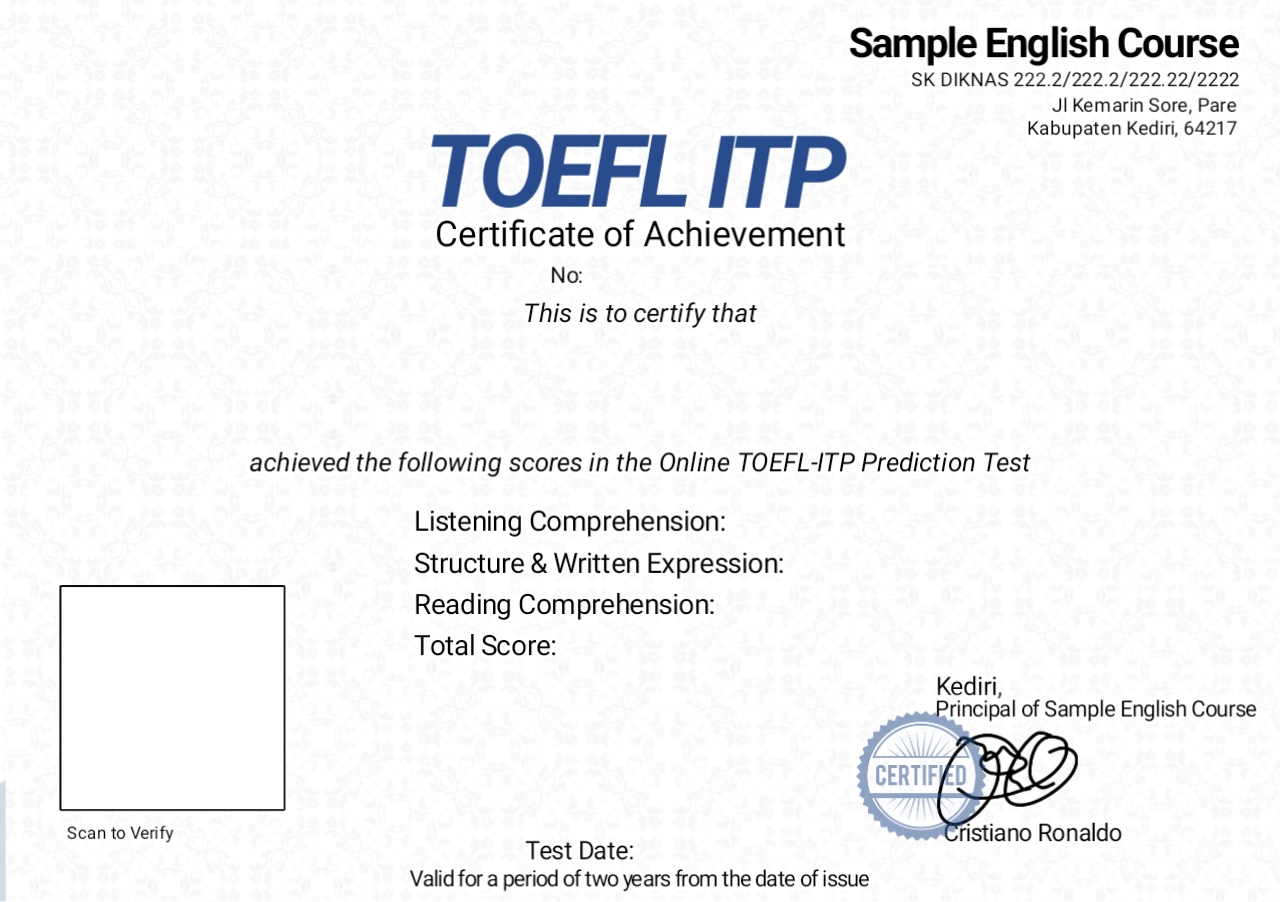
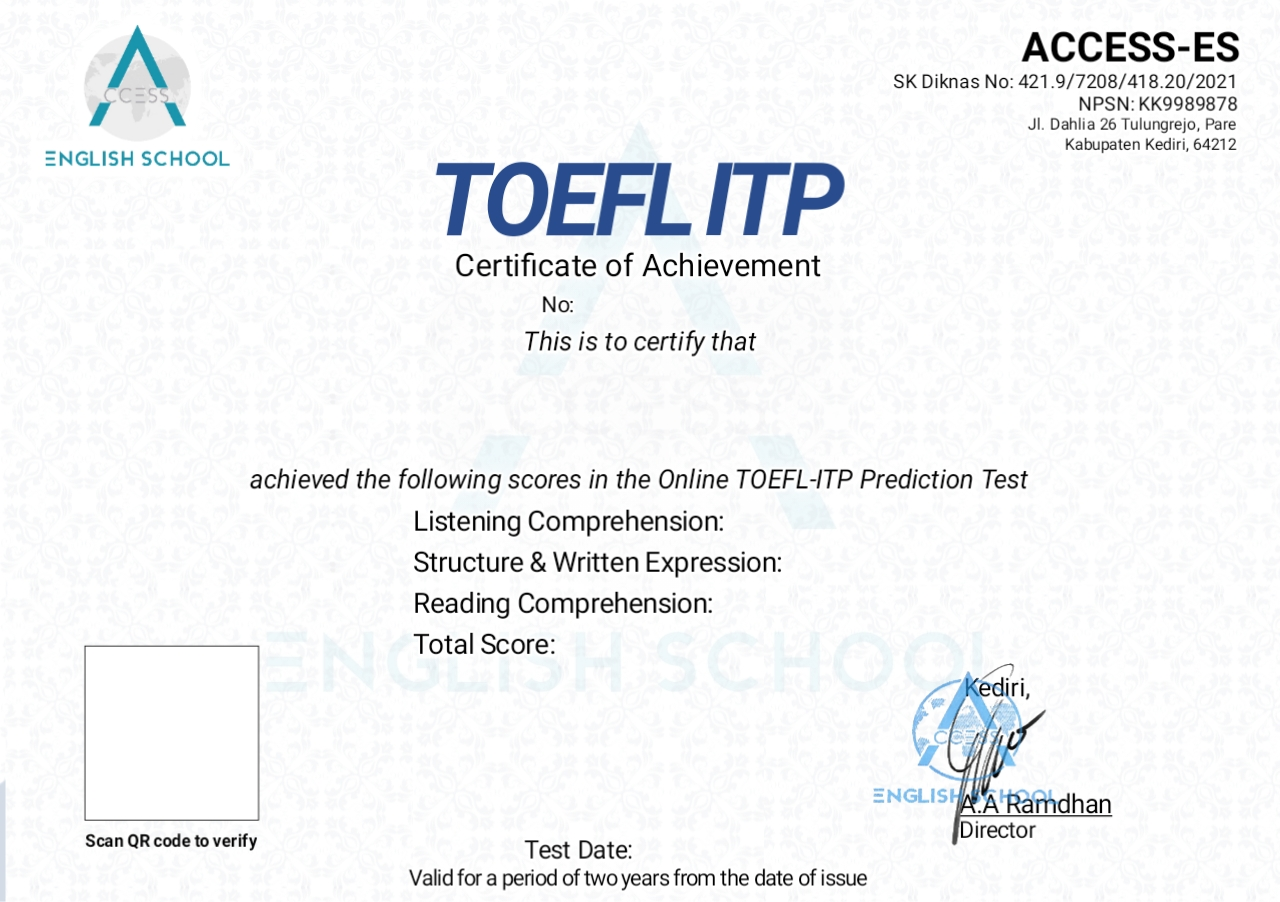
sertifikat access

diff --git a/application/views/pages/tes/sertifikat.php b/application/views/pages/tes/sertifikat.php
@@ -49,8 +49,8 @@
         .qrcode{
             width: 210px;
 			position: absolute;
-            left: 36px;
-			bottom: 55px;
+            left: 57px;
+			bottom: 54px;
             font-size: 35px;
             word-spacing: 3px;
         }
@@ -60,7 +60,7 @@
             width: 600px;
 			position: absolute;
             left: 100px;
-			top: 200px;
+			top: 230px;
             font-size: 26px;
             font-family: 'Roboto', sans-serif;
             word-spacing: 3px;
@@ -71,7 +71,7 @@
             width: 600px;
 			position: absolute;
             left: 100px;
-			top: 238px;
+			top: 259px;
             font-size: 16px;
             font-family: 'Roboto', sans-serif;
             word-spacing: 3px;
@@ -167,7 +167,7 @@
             /* background-color: red; */
 			position: absolute;
             left: 606px;
-			bottom: 109px;
+			bottom: 107px;
             font-size: 14px;
             font-family: 'Roboto', sans-serif;
             word-spacing: 3px;
@@ -177,8 +177,8 @@
             /* background-color: red; */
             width: 200px;
 			position: absolute;
-            left: 370px;
-			top: 162px;
+            left: 364px;
+			top: 181px;
             font-size: 13px;
             font-family: 'Roboto', sans-serif;
             word-spacing: 3px;
@@ -223,7 +223,7 @@
 </head>
     <body style="text-align: center">
         <div class="qrcode">
-            <img src="<?= base_url()?>assets/qrcode/<?= $id?>.png" width=145 alt="">
+            <img src="<?= base_url()?>assets/qrcode/<?= $id?>.png" width=100 alt="">
         </div>
         <div class="nilai"><p style="text-align: right; margin: 0px"><b><?= round($skor)?></b></p></div>
         <div class="nama"><p style="text-align: center; margin: 0px"><b><u><?= $nama?></u></b></p></div>

diff --git a/application/controllers/Tes.php b/application/controllers/Tes.php
@@ -219,7 +219,7 @@ class Tes extends MY_Controller {
 
         $skor = round($skor);
         
-        $peserta['no_doc'] = "EI/{$peserta['tahun']}/{$peserta['no_doc']}";
+        $peserta['no_doc'] = "AC/ES/{$peserta['tahun']}/1{$peserta['no_doc']}";
 
         $peserta['config'] = $this->tes->config();
         $peserta['id_tes'] = $peserta['id_tes'];
